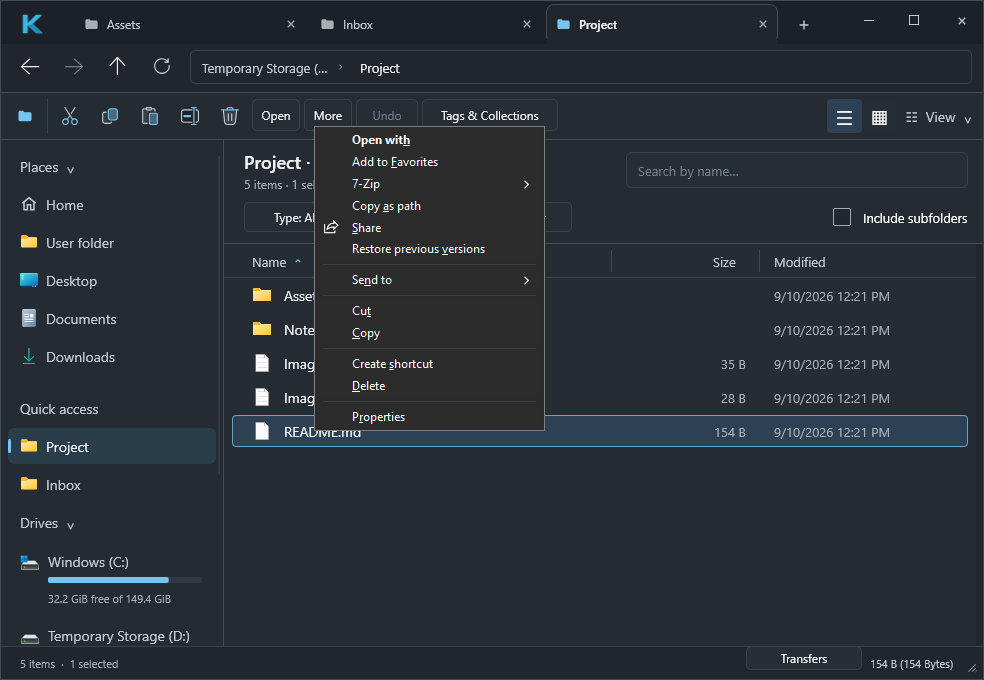
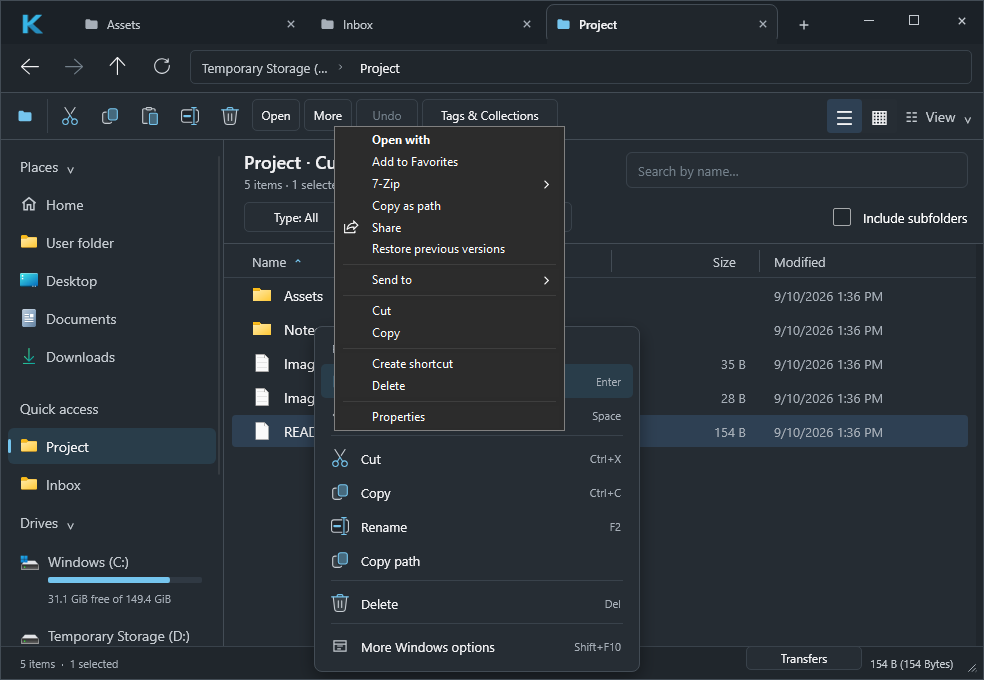
docs: show themed file actions and clarify native menu access

diff --git a/README.md b/README.md
@@ -19,8 +19,8 @@ and an inspector in a compact desktop interface. Built with **Rust, Slint and Wi
 Windows 10/11 x64. No Electron or WebView.
 
 > **0.2 release candidate:** The current source includes the daily-driver changes below.
-> The published v0.1.0 installer predates these changes. The verified 0.2.0 Setup
-> and ZIP are available in the [candidate workflow artifacts](https://github.com/cubiix3/Kova-File-Manager/actions/runs/34473650758)
+> The published v0.1.0 installer predates these changes. Get the 0.2.0 Setup
+> and ZIP from the [candidate workflow artifacts](https://github.com/cubiix3/Kova-File-Manager/actions/runs/34483751031)
 > (GitHub sign-in required). No new public release has been published.
 > See [verification and limits](docs/DAILY_DRIVER_VERIFICATION.md) and the [changelog](CHANGELOG.md).
 
@@ -28,8 +28,8 @@ Windows 10/11 x64. No Electron or WebView.
 
 Choose the build you want:
 
-- **0.2.0 candidate shown here:** open the [verified package run](https://github.com/cubiix3/Kova-File-Manager/actions/runs/34473650758),
-  sign in to GitHub and download **kova-windows-x64** under **Artifacts**. Extract
+- **0.2.0 candidate shown here:** open the [candidate package run](https://github.com/cubiix3/Kova-File-Manager/actions/runs/34483751031),
+  after its checks pass, sign in to GitHub and download **kova-windows-x64** under **Artifacts**. Extract
   that download, then run `Kova-Setup-0.2.0-x64.exe`.
 - **Published preview:** open [GitHub Releases](https://github.com/cubiix3/Kova-File-Manager/releases)
   and download the Setup EXE from **Assets**. The currently published v0.1.0
@@ -87,12 +87,23 @@ The inspector wraps long paths and offers **Copy Path**.
 
 </details>
 
-### Feels new. Works native.
+### File actions that fit the app
 
-Use your installed Shell extensions, associated applications and familiar
-Windows commands directly from Kova's native context menu.
+Right-click a file or choose **More** for a menu with matching icons, clear groups
+and visible shortcuts. Cut, copy, rename, preview and copy full paths without
+leaving the app. Multi-selection shows the actions that apply to those files.
+
+![Kova file actions with icons and shortcuts](docs/images/daily-driver-context.png)
+
+Choose **More Windows options**, or press **Shift+F10** from the file list, for the
+full native Windows menu and installed Shell extensions such as 7-Zip.
+
+<details>
+<summary>Native Windows extensions remain available</summary>
 
 ![Native Windows context menu](docs/images/daily-driver-native.png)
+
+</details>
 
 ### Every drive. One place.
 
@@ -122,6 +133,7 @@ collisions wait for your choice; folder merges retain native Windows handling.
 | Copy / cut / paste | `Ctrl+C` / `Ctrl+X` / `Ctrl+V` |
 | Select all / delete | `Ctrl+A` / `Delete` |
 | Toggle preview | `Space` |
+| Native Windows options | `Shift+F10` |
 | Details / Gallery | `Ctrl+1` / `Ctrl+2` |
 | Search the current folder/tree | `Ctrl+F` |
 | Review the last supported Undo | `Ctrl+Z` |

diff --git a/docs/FILE_CONTEXT_MENU.md b/docs/FILE_CONTEXT_MENU.md
@@ -1,0 +1,48 @@
+# File context actions
+
+Right-click and the toolbar's **More** button open a file menu using the existing
+app palette, icons and typography. The menu groups common actions and displays
+their shortcuts. It offers file/folder-specific actions for single selections and
+Cut, Copy, Copy paths, Delete and Windows options for multiple selections.
+
+The native Windows **IContextMenu** implementation is retained unchanged. Choose
+**More Windows options** or press **Shift+F10** in the file list to use installed
+Shell extensions. Normal themed actions use the existing Kova clipboard and
+operation dispatchers, including conflict handling and Recycle Bin deletion.
+
+## Interaction and accessibility
+
+- Up/Down, Home/End and Enter choose visible commands. Escape, Tab and outside
+  clicks dismiss the menu and return focus to the file list.
+- Menu placement is clamped in logical pixels to the current window; resizing
+  cannot leave its actions outside the viewport.
+- UI Automation exposes a named File actions group and named action buttons.
+  Command rows retain stable accessibility identities when selection changes.
+  Focus moves out before menu nodes are hidden; opening multi-selection chooses
+  an applicable command before exposing the accessibility tree.
+- Navigation, selection changes, operation dialogs, window deactivation and snapshot replacement
+  dismiss the menu so its row context cannot act on a different file.
+- Copy path(s) writes full paths as text, separated by Windows line breaks for
+  multiple selections. File Copy/Cut retains Explorer-compatible clipboard data.
+
+## Verification
+
+`scripts/test-ui.ps1` exercises toolbar and mouse opening, viewport bounds, full
+path copying, keyboard rename, Undo, multiple selections, Escape, native menu
+handoff, refresh invalidation and Gallery targeting. The existing drag/drop,
+recursive search and restored-session flows run afterward. The Windows CI job
+runs these against the actual application and uploads logs and screenshots.
+
+`scripts/capture-demo.ps1` captures the themed menu and verifies a real native
+Windows menu through its process-owned menu window before recording the extension
+fallback. Product captures use disposable files and a separate preferences profile.
+
+The initial interactive run exposed a focus error when a menu entry disappeared
+for multi-selection. Focus is now changed before showing/hiding those nodes;
+that transition remains covered by the multi-selection interaction test.
+
+The [Windows CI run](https://github.com/cubiix3/Kova-File-Manager/actions/runs/34483172250)
+passed format/check, 90 tests, warning-free Clippy and all actual UI interactions
+for application source `866b88a`. Build/run evidence is recorded alongside the [product captures](DEMO.md).
+The broader [hardening verification and performance baseline](DAILY_DRIVER_VERIFICATION.md)
+remains available with its original build provenance.

diff --git a/docs/DEMO.md b/docs/DEMO.md
@@ -1,19 +1,20 @@
 # Product captures
 
-The README uses unedited window captures of the 0.2 release candidate taken on
+The README uses unedited window captures of the 0.2 candidate taken on
 10 September 2026 on an interactive Windows Server 2025 hosted desktop at 100%
-scaling (984 × 680 physical window pixels). The executable comes from the verified
-[0.2.0 package](https://github.com/cubiix3/Kova-File-Manager/actions/runs/34473650758),
-application source `ea92807`. Files and preferences use isolated fixtures on a
-temporary SUBST drive.
+scaling (984 × 680 physical window pixels). The application source is `866b88a`.
+Files and preferences use isolated fixtures on a temporary SUBST drive.
 
-[View/conflict captures and performance](https://github.com/cubiix3/Kova-File-Manager/actions/runs/34475306852)
-and the [verified native-menu capture](https://github.com/cubiix3/Kova-File-Manager/actions/runs/34476071198)
-retain their raw logs and images as workflow artifacts.
+The [Windows interaction run](https://github.com/cubiix3/Kova-File-Manager/actions/runs/34483172250)
+passed the menu, clipboard, keyboard, refresh, Gallery and native-extension flows
+and retained its debug-build captures. The matching
+[candidate package workflow](https://github.com/cubiix3/Kova-File-Manager/actions/runs/34483751031)
+builds Setup and ZIP from the same application source.
 
 - [Details](images/daily-driver-details.png): tabs, readable search/filter controls and details.
 - [Text inspector](images/daily-driver-inspector.png): text preview and Copy Path.
 - [Gallery](images/daily-driver-gallery.png): gallery and inspector with copyable metadata.
+- [Themed file actions](images/daily-driver-context.png): matching icons, grouped actions and shortcuts.
 - [Native Windows menu](images/daily-driver-native.png): the real Windows Shell context menu.
 - [Home](images/daily-driver-home.png): recent folders, favorites and drives.
 - [File conflicts](images/daily-driver-conflict.png): incoming/existing comparison and explicit choices.

diff --git a/docs/INTERACTION_INTEGRATION.md b/docs/INTERACTION_INTEGRATION.md
@@ -2,12 +2,16 @@
 
 ## Mouse selection
 
-Drag with the left button from blank space or a file row to draw a selection
-rectangle. Dragging back shrinks the selection. Ctrl/Shift preserves the selection
+Drag with the left button from blank space to draw a selection rectangle. Dragging back shrinks the selection. Ctrl/Shift preserves the selection
 from mouse-down and adds the intersected rows. Escape restores that baseline.
 The list scrolls automatically near its top/bottom edge. A stable input surface
 keeps the gesture alive as rows are virtualized; only changed selection flags
 are written to the existing model. Navigation/loading cancels the gesture.
+
+Dragging from a file row or Gallery tile starts a native file transfer. Drop onto
+a folder, tab, sidebar location or Explorer; Ctrl requests Copy and Shift requests
+Move. Right-click opens the [themed file actions](FILE_CONTEXT_MENU.md), with the
+complete native extension menu available through More Windows options.
 
 ## Open Windows folders in Kova
 
@@ -49,7 +53,11 @@ Win+E, virtual Shell folders, file-picker dialogs, and applications that force a
 Explorer-specific API remain Windows-controlled. This does not claim to replace
 all Explorer functionality. Each external folder launch opens a Kova window.
 
-## Verification
+## Historical interaction verification
+
+The following checks describe the earlier selection/integration milestone, before
+row dragging became native file transfer. Current coverage is in the
+[daily-driver report](DAILY_DRIVER_VERIFICATION.md) and [file-menu verification](FILE_CONTEXT_MENU.md).
 
 Actual release mouse/keyboard input and Windows Shell execution:
 

diff --git a/docs/NEXTGEN.md b/docs/NEXTGEN.md
@@ -57,6 +57,24 @@ sorting. An incomplete scan is a lower bound: it cannot prove an upper bound or
 an exact size. Search is scoped to the open folder/tree; system-wide indexed
 search is not included.
 
+## File context actions
+
+Right-click a selected file or use **More** to open the themed file menu. It offers
+Open, Open in new tab for folders, Preview for files, Cut, Copy, Rename, Copy path
+and Delete. Multi-selection keeps the applicable transfer actions and offers
+**Copy paths**, one full path per line. These actions use Kova's existing operation
+and clipboard handling.
+
+Use arrow keys and Enter to choose an action; Escape, Tab or an outside click
+closes the menu. It stays inside the current window and closes if navigation or a
+background refresh changes its file snapshot, so a stale row cannot trigger an
+action on a different file.
+
+**More Windows options** opens the complete Windows Shell menu with installed
+extensions. **Shift+F10** remains a direct shortcut from the list; the same shortcut
+inside the themed menu opens Windows options. Native extension commands retain
+their own operation UI and remain outside Kova's Undo history.
+
 ## Transfers and conflicts
 
 Copy, cut/paste and deletion use Windows **IFileOperation**, on a dedicated STA

diff --git a/docs/DAILY_DRIVER_VERIFICATION.md b/docs/DAILY_DRIVER_VERIFICATION.md
@@ -1,10 +1,11 @@
 # Kova 0.2 daily-driver verification
 
 Implementation and interactive Windows verification: 10 September 2026.
-The verified installer was built from `ea92807` (application changes through
-`46da38a`). Later commits change verification scripts, documentation and captures;
-application and packaging inputs match the installer source. Public publication
-remains a separate step.
+This report records the hardening baseline built from `ea92807` (application
+changes through `46da38a`). Its measurements and captures refer to that build.
+The subsequent [file-menu refinement](FILE_CONTEXT_MENU.md) adds themed actions
+and further Windows interaction coverage. Current candidate downloads are linked
+from the [README](../README.md). Public publication remains a separate step.
 
 ## Scope delivered
 

diff --git a/docs/PRODUCT.md b/docs/PRODUCT.md
@@ -7,7 +7,8 @@ browsing, familiar interactions and visible file-operation outcomes.
 
 - Home with recent/pinned folders, drive capacity, free space, file system and usage bars.
 - Tabbed browsing, breadcrumbs, history, known folders and direct folder launches.
-- Native Windows Shell menus, associated application launch and file clipboard.
+- Themed file actions, with native Windows Shell extensions available through More Windows options.
+- Associated application launch and Explorer-compatible file clipboard.
 - Copy, move and Recycle Bin deletion through Windows `IFileOperation`.
 - Inline New Folder and Rename, including filename validation.
 - Sorting, resizable columns, Ctrl/Shift selection and mouse selection rectangle.

diff --git a/CHANGELOG.md b/CHANGELOG.md
@@ -14,6 +14,8 @@
   destination checks. Copy, delete, replacement and cross-volume moves remain outside Undo.
 - Compare incoming/existing names, paths, sizes and dates in conflicts. Keep Both,
   Skip, Replace and apply-to-remaining choices preserve explicit overwrite consent.
+- Match the file context menu to the app with icons, grouped actions and shortcuts;
+  retain native Shell extensions through More Windows options and Shift+F10.
 - Give Home recent folders and favorites; simplify toolbar actions; improve inspector
   path wrapping/copying, tooltips, keyboard shortcuts and accessibility labels.
 - Detect drive arrival/removal automatically; show unavailable locations with Retry.

diff --git a/packaging/release-notes.md b/packaging/release-notes.md
@@ -6,6 +6,7 @@ Large folders use background natural sorting/filtering and a lazy UI model.
 
 - Restored tabs, searches, window state, columns, gallery and inspector.
 - Plain search with Type / Size / Date controls and cancellable Include subfolders.
+- Themed file context actions with icons and shortcuts; native extensions through More Windows options.
 - Explorer-compatible drag/drop and clipboard; Copy/Move feedback before dropping.
 - Incoming/existing conflict comparison with Replace, Skip, Keep Both and apply to remaining.
 - Recent folders and favorites on Home, clearer actions, copyable inspector paths,

diff --git a/docs/WINDOWS_RELEASE.md b/docs/WINDOWS_RELEASE.md
@@ -69,5 +69,6 @@ Dispatch **Windows packages** with `verify_package_run` set to the successful
 package run ID. The separate job downloads that exact artifact, verifies its
 checksums and provenance, runs keyboard/UI Automation/native-drag interactions,
 and measures 1k/10k/100k-folder UI behavior. Set `capture_demo` to capture current
-Details, Gallery, Home, Inspector, native menu and conflict views as well.
+Details, Gallery, Home, Inspector, themed file menu, native extension menu and
+conflict views as well.
 Results are uploaded as `kova-ui-verification`. No tag or public release is created.

diff --git a/CONTRIBUTING.md b/CONTRIBUTING.md
@@ -18,8 +18,8 @@ Thanks for your interest in improving Kova!
 ## Required quality gates
 
 CI runs these on pull requests and pushes to `main`; please make sure they pass
-locally before opening a PR. The `windows` job runs the gates; `CI` reports its
-result for branch protection. Both existing required checks must pass:
+locally before opening a PR. The `windows` job runs the gates and real desktop interaction tests; `CI` reports
+its result for branch protection. Both existing required checks must pass:
 
 ```powershell
 cargo fmt --all -- --check

diff --git a/docs/ARCHITECTURE.md b/docs/ARCHITECTURE.md
@@ -73,7 +73,7 @@ Filesystem I/O happens on the Tokio runtime, not the UI thread.
 - `preferences`: versioned session capture and debounced atomic persistence
 - `keyboard`, `drag_drop`, `operations`: native interaction boundaries
 - `shared.slint`, `controls.slint`, `search.slint`, `inspector.slint`,
-  `operations.slint`: coherent view components, with `main.slint` composing them
+  `operations.slint`, `file-menu.slint`: coherent view components, with `main.slint` composing them
 
 Contains no direct `std::fs` calls from callbacks.
 
